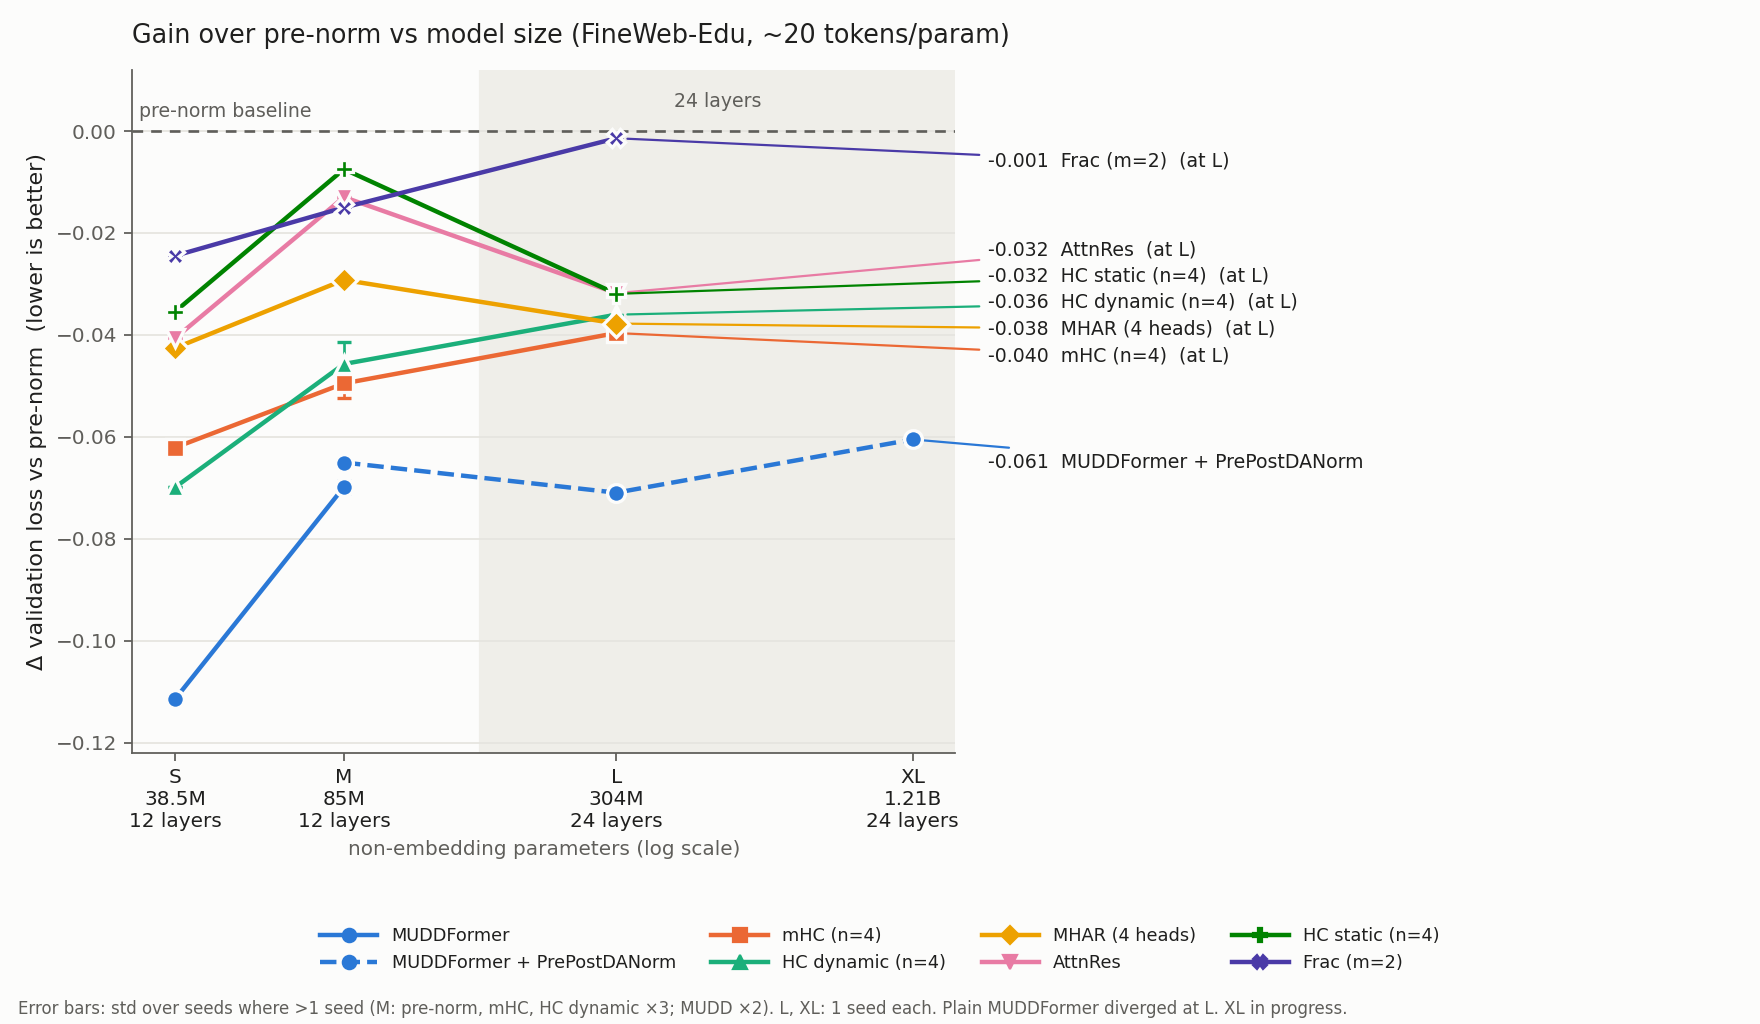
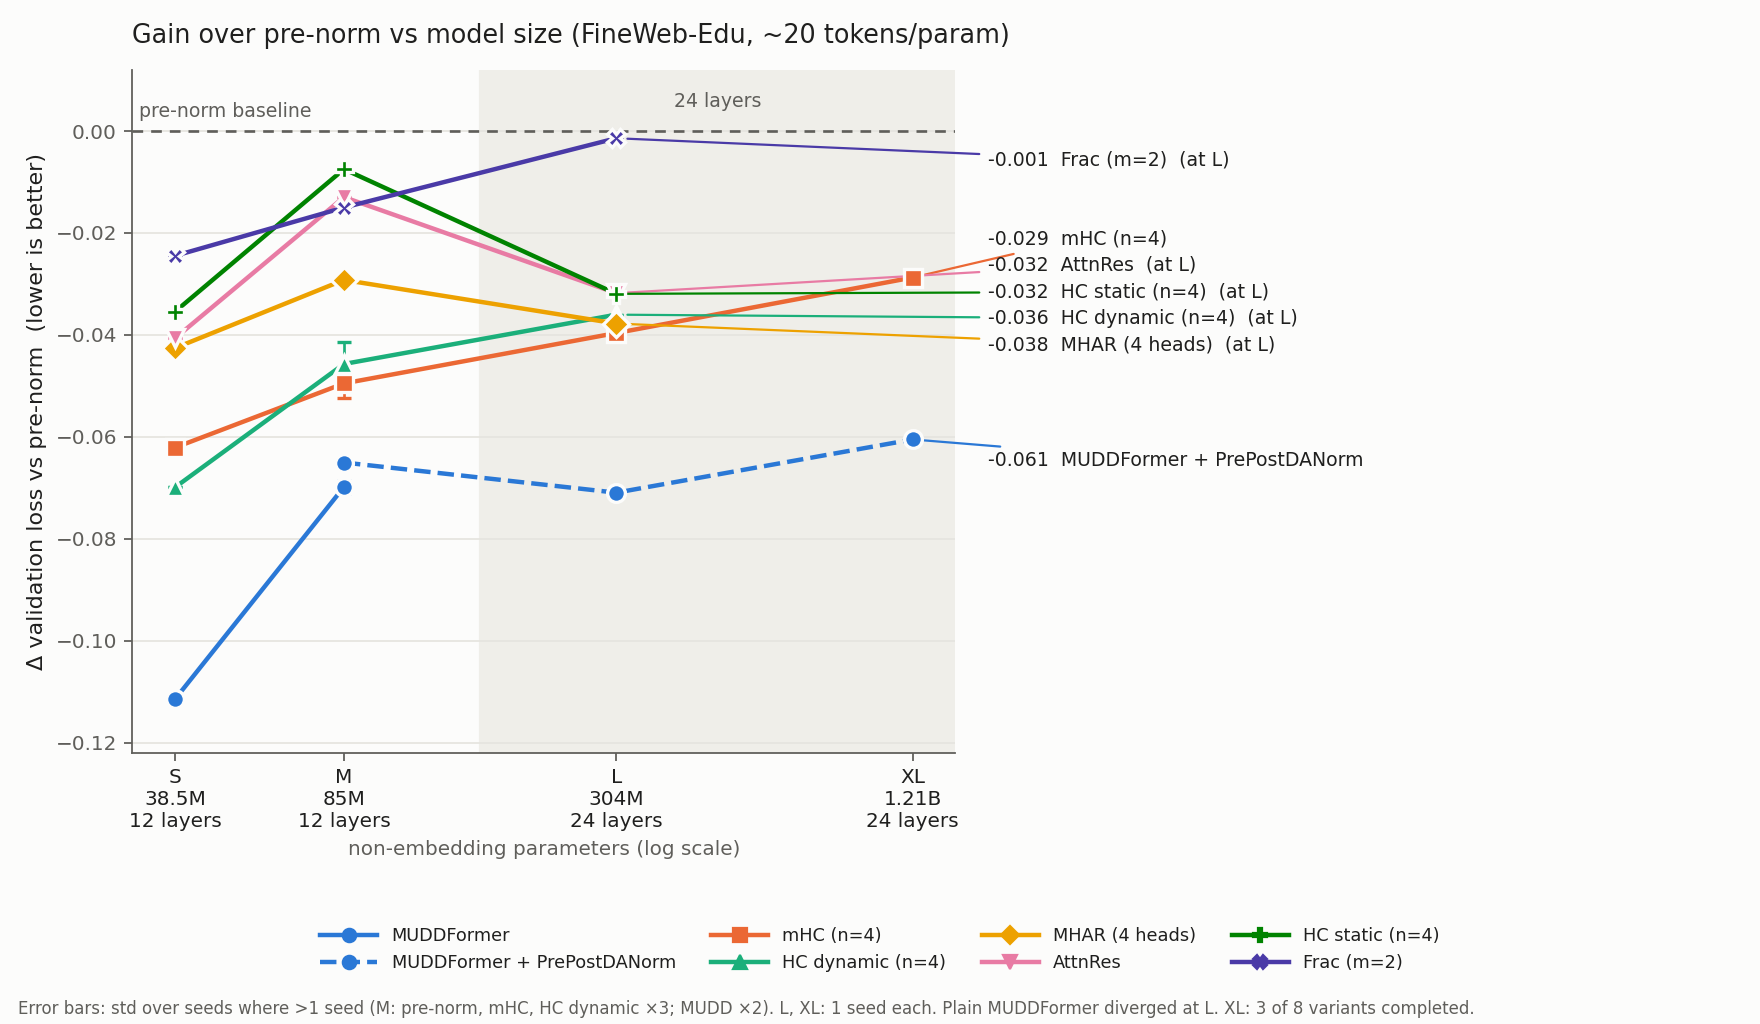
results: final XL — MUDD-ppn -0.061, mHC -0.029 (HC-dyn stopped at 66%)

Changed region(s): [[0.3438, 0.2188, 0.75, 0.375], [0.5625, 0.4375, 0.7812, 0.4688], [0.7188, 0.9688, 0.8438, 1.0]]

diff --git a/scripts/plot_scaling_gpu.py b/scripts/plot_scaling_gpu.py
@@ -141,7 +141,7 @@ def main():
     fig.legend(handles=handles, loc="lower center", bbox_to_anchor=(0.5, 0.035), fontsize=8,
                frameon=False, ncol=4, labelcolor=INK, handlelength=3.2)
     fig.text(0.01, 0.01, "Error bars: std over seeds where >1 seed (M: pre-norm, mHC, HC dynamic ×3; "
-             "MUDD ×2). L, XL: 1 seed each. Plain MUDDFormer diverged at L. XL in progress.",
+             "MUDD ×2). L, XL: 1 seed each. Plain MUDDFormer diverged at L. XL: 3 of 8 variants completed.",
              fontsize=7.5, color=INK2)
     fig.tight_layout(rect=(0, 0.13, 0.8, 1))  # right margin: direct labels; bottom: legend
     fig.savefig(os.path.join(args.out, "gain_vs_size.png"), dpi=160, facecolor=SURFACE)

diff --git a/README.md b/README.md
@@ -40,7 +40,7 @@ variants: `configs/variants_gpu.yaml`.
 | S | 12L × 512 | 38.5M | 0.79B |
 | M | 12L × 768 | 85.0M | 1.70B |
 | L | 24L × 1024 | 303.6M | 6.03B (8-GPU DDP per variant) |
-| XL | 24L × 2048 | 1.21B | 24.3B (8-GPU DDP per variant) — **in progress** (2/8 variants done) |
+| XL | 24L × 2048 | 1.21B | 24.3B (8-GPU DDP per variant); 3 of 8 variants completed |
 
 **Tokens per parameter (TPP).** Every GPU size is trained at about 20 tokens per *non-embedding*
 parameter, roughly Chinchilla-optimal. Input and output embeddings are tied, so counting the
@@ -68,7 +68,7 @@ Where there are several seeds the table gives mean ± std (pre-norm at M: 3 seed
 | hc-dynamic-n4 | -0.0699 | -0.0457 ± 0.0042 (n=3) | -0.0360 | — |
 | hc-static-n4 | -0.0355 | -0.0075 | -0.0319 | — |
 | mhar-h4 | -0.0426 | -0.0292 | -0.0378 | — |
-| mhc-n4 | -0.0621 | -0.0495 ± 0.0029 (n=3) | -0.0396 | — |
+| mhc-n4 | -0.0621 | -0.0495 ± 0.0029 (n=3) | -0.0396 | -0.0287 |
 | muddformer | -0.1115 | -0.0698 ± 0.0011 (n=2) | — | — |
 | muddformer-ppn | — | -0.0650 | -0.0710 | -0.0605 |
 | *non-emb params* | 38.5M | 85.0M | 303.6M | 1214.4M |
@@ -89,10 +89,12 @@ What the GPU runs show:
   M to L doubles depth as well as width. Every method here routes information *across depth*,
   so read the M → L column as "bigger **and** deeper", not as pure size scaling.
 * **Every variant beats pre-norm at every size**, except Frac at L (−0.001, i.e. no gain).
-* **XL (1.21B, 24.3B tokens; in progress).** Same 24 layers as L, so L → XL is a pure width
-  step. MUDDFormer + PrePostDANorm finishes at **−0.061** (2.4146 vs 2.4751). The gap was
-  −0.068 to −0.066 through the constant-LR phase and narrowed during the WSD cooldown. The other
-  variants are still training.
+* **XL (1.21B, 24.3B tokens).** Same 24 layers as L, so L → XL is a pure width step. Completed:
+  MUDDFormer + PrePostDANorm **−0.061** (2.4146 vs 2.4751) and mHC **−0.029** (2.4463).
+  Dynamic HC was stopped at 66% of training (step 30.7K/46.4K), when it stood at −0.023 vs
+  pre-norm at the same step (constant-LR phase, before cooldown). The remaining XL variants (Frac,
+  static HC, AttnRes, MHAR) were not run. Their configs are in `configs/variants_xl.yaml`, and the
+  sweep can be resumed from the checkpoints.
 * **MUDDFormer is the best variant at every size.** −0.112 at S and −0.070 ± 0.001 at M (plain),
   then −0.065 at M and **−0.071 at L** with PrePostDANorm. The like-for-like ppn comparison M → L
   is flat to slightly growing. Plain MUDDFormer **diverged at 24 layers**: gradient norms spiked

diff --git a/results/scaling_gpu/scaling.md b/results/scaling_gpu/scaling.md
@@ -8,7 +8,7 @@ Row `prenorm` = its val loss; other rows = Δ vs prenorm at the same width.
 | hc-dynamic-n4 | -0.0699 | -0.0457 ± 0.0042 (n=3) | -0.0360 | — |
 | hc-static-n4 | -0.0355 | -0.0075 | -0.0319 | — |
 | mhar-h4 | -0.0426 | -0.0292 | -0.0378 | — |
-| mhc-n4 | -0.0621 | -0.0495 ± 0.0029 (n=3) | -0.0396 | — |
+| mhc-n4 | -0.0621 | -0.0495 ± 0.0029 (n=3) | -0.0396 | -0.0287 |
 | muddformer | -0.1115 | -0.0698 ± 0.0011 (n=2) | — | — |
 | muddformer-ppn | — | -0.0650 | -0.0710 | -0.0605 |
 | *non-emb params* | 38.5M | 85.0M | 303.6M | 1214.4M |
